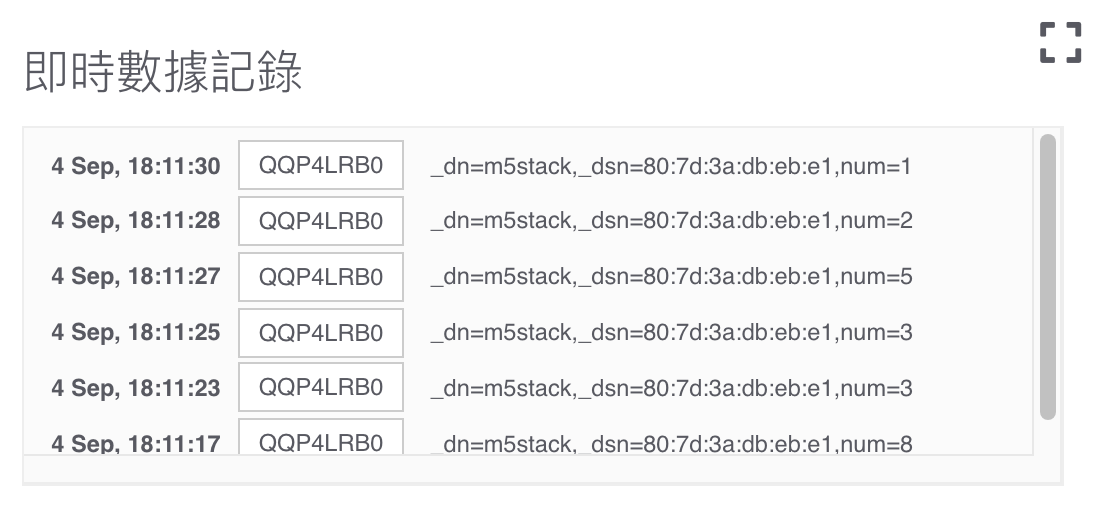
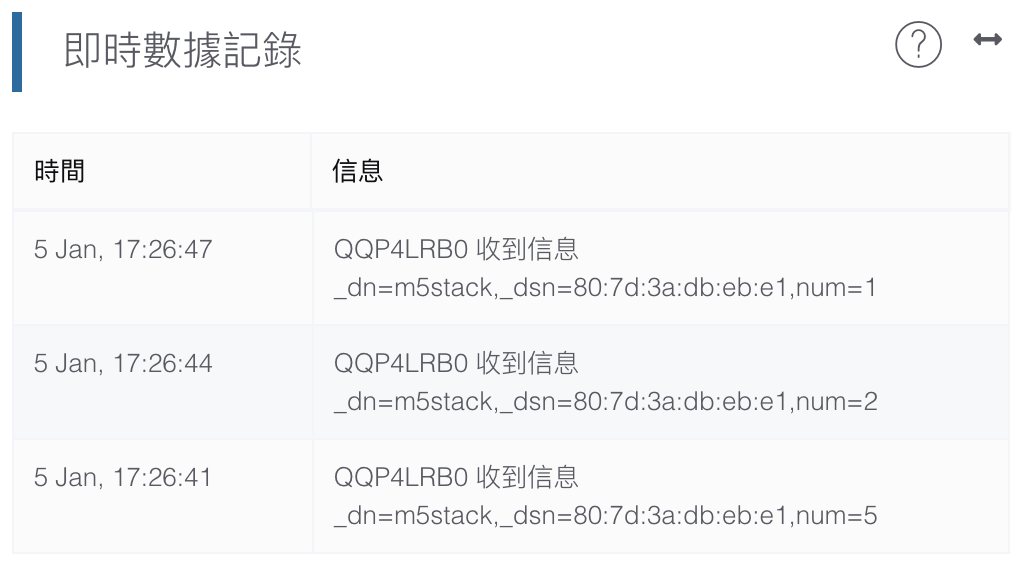
Updated tutorials with new version of MakerCloud

diff --git a/docs/ch1_project/project.md b/docs/ch1_project/project.md
@@ -1,51 +1,38 @@
 # 項目
 [TOC]
 ## 創建項目
-登入創客雲後，按下「創建項目」  
-![img_1.png](img/img_1.png){width="60%"}
+1. 登入創客雲後，按下「創建項目」按鈕。
+2. 輸入項目名稱，按下「確認」按鈕。
+3. 按下「OK」按鈕。
 
-選擇「物聯網項目」，然後輸入項目名稱並按下「創建項目」  
-![img_2.png](img/img_2.png){width="100%"}
+![img_1.gif](img/img_1.gif)
 
-看到項目主頁便完成了創建項目  
-![img_3.png](img/img_3.png){width="100%"}
+成功建立項目後，便會進入項目主頁。  
+![img_2.png](img/img_2.png)
 
 ## 更改項目名稱
-按下在項目名稱右上角的設定按鈕  
-![img_4.png](img/img_4.png){width="60%"}
+1. 進入項目主頁，按下「更改名稱」按鈕。
+2. 更改項目名稱，按下「確認」按鈕。
+3. 按下「OK」按鈕。
 
-選擇「編輯」  
-![img_5.png](img/img_5.png){width="60%"}
-
-更改名稱後，按下「確認」  
-![img_6.png](img/img_6.png){width="60%"}
-
-回到項目主頁便會看到項目名稱已經更改  
-![img_7.png](img/img_13.png){width="60%"}
+![img_3.gif](img/img_3.gif)
 
 ## 項目分享
-使用者可以透過分享連結或QR
-code給其他使用者，因此不同的使用者可以共同協作同一個項目。
+使用者可以透過分享連結或QR code給其他使用者，因此不同的使用者可以共同協作同一個項目。
 
-在項目主頁，按下「分享」按鈕  
-![img_8.png](img/img_7.png){width="100%"}
+1. 在用戶列表中，按下「分享」按鈕。  
+![img_4.png](img/img_4.png){:width="70%"}
+</br></br>
+2. 把連結或QR code傳送給其他創客雲使用者。  
+![img_5.png](img/img_5.png){:width="50%"}
 
-把頁面中的QR code或 連結 分享給其他使用者，邀請加入項目  
-![img_9.png](img/img_8.png){width="50%"}
-
-當被邀請者掃瞄QR code或按下分享連結，然後再按下「確認」按鈕便成功加入項目  
-![img_9.png](img/img_9.png){width="40%"}
-
+當其他創客雲使用者加入了項目後，便可以在用戶列表中看到其他使用者的電郵地址。  
+![img_6.png](img/img_6.png){:width="70%"}  
 成功加入項目的使用者，可以與其他擁有同一項目的使用者共同協作。
 
 ## 上載檔案
-在項目主頁，按下「我的檔案」按鈕。  
-![img_10.png](img/img_10.png)
-
-把檔案拖曳到或點擊指定地方以上載文件  
-![img_11.png](img/img_11.png){width="50%"}
-
-上載成功後，使用者點擊檔案名稱便下載檔案  
-![img_12.png](img/img_12.png){width="50%"}
 
 使用者可能上載與項目有關的檔案到創害雲，如micro:bit編程、筆記等，方便與項目共同者分享檔案。
+
+在檔案列表中，按下「上載文件」按鈕或直接把文件拖到檔案列表中，便可以上載檔案。  
+![img_7.png](img/img_7.png){:width="70%"}

diff --git a/docs/ch5_publish/ai2/publish_ai2.md b/docs/ch5_publish/ai2/publish_ai2.md
@@ -57,17 +57,17 @@
 1. 加入連接創客雲積木  
    當screen初始化，執行「呼叫MakerCloudMQTT」
 2. 當點選"按鈕1"後，發布在文字輸入盒中的文字到創客雲  
-   ![img_9.png](img/img_9.png){:width="70%"}  
-</br></br>
+   ![img_9.png](img/img_9.png){:width="70%"}
 3. 在創客雲複製主題名稱  
-   ![img_10.png](img/img_10.png){:width="60%"}
+   ![img/img_topic_message.png](img/img_topic_message.png){:width="80%"}
+</br></br>
 4. 在AI2，把主題名稱貼上到"topic"
    ![img_11.png](img/img_11.png){:width="70%"}
 
 這樣便完成了發布文字的AI2編程了。
 
 回到創客雲的項目主頁，在即時數據紀錄視窗中便可看到從APP發布的文字訊息。
-![img_12.png](img/img_12.png){:width="80%"}
+![img_12.png](img/img_12.png){:width="70%"}
 
 ## 發布鍵值對訊息
 #### 學習重點
@@ -107,8 +107,8 @@
    注意: 發布積木中分別有**發布鍵文字對**和**發布鍵值對**，使用者可按數據類型使用
     </br></br>
 3. 在創客雲複製主題名稱  
-   ![img_16.png](img/img_16.png){:width="60%"}
-
+   ![img_topic_randNum.png](img/img_topic_randNum.png){:width="80%"}
+    </br></br>
 4. 在"Topic"中貼上主題名稱，在"key"中輸入"num"，在"value中加入"隨機整數從0到10"
    ![img_17.png](img/img_17.png){:width="90%"}
 </br></br>
@@ -117,8 +117,10 @@
 當按下按鈕後，在即時數據紀錄便可以看到來自App的鍵值對訊息。  
 ![img_18.png](img/img_18.png){:width="70%"}
 
-然後重新整理項目主頁。  
-創雲會為鍵值對自動紀錄鍵的名字和創建圖表。  
-![img_19.png](img/img_19.png)
+然後重新整理項目主頁，並轉到圖表主頁。
+![img_tochartpage.png](img/img_tochartpage.png){:width="100%"}
+
+創客雲會為鍵值對自動紀錄鍵的名字和創建圖表。  
+![img_19.png](img/img_19.png){:width="60%"}
 
 

diff --git a/docs/ch5_publish/python/publish_python.md b/docs/ch5_publish/python/publish_python.md
@@ -73,7 +73,7 @@ MakerCloudMQTT.publish_coordination(topic, latitude, longitude)
 1. 創建項目
 2. 創建主題
 3. 在創客雲複製主題名稱  
-![img_2.png](img/img_2.png){:width="60%"}
+![img/img_topic_message.png](img/img_topic_message.png){:width="80%"}
 
 **然後便可到Python編程:**
 ```python
@@ -98,7 +98,7 @@ Message: Python
 ```
 
 回到創客雲的項目主頁，在即時數據紀錄視窗中便可看到從APP發布的文字訊息。
-![img_3.png](img/img_3.png){:width="65%"}
+![img_3.png](img/img_3.png){:width="70%"}
 
 ### 發布鍵值對訊息
 #### 學習重點
@@ -115,7 +115,7 @@ Message: Python
 1. 創建項目
 2. 創建主題
 3. 在創客雲複製主題名稱  
-   ![img_4.png](img/img_4.png){:width="60%"}
+![img_topic_randNum.png](img/img_topic_randNum.png){:width="80%"}
 
 **然後便可到Python編程:**
 ```python
@@ -141,6 +141,8 @@ while 1:
 在即時數據紀錄便可以看到來自App的鍵值對訊息。  
 ![img_6.png](img/img_6.png){:width="70%"}
 
-然後重新整理項目主頁。  
-創雲會為鍵值對自動紀錄鍵的名字和創建圖表。  
-![img_5.png](img/img_5.png){:width="60%"}
+然後重新整理項目主頁，並轉到圖表主頁。  
+![img_tochartpage.png](img/img_tochartpage.png){:width="100%"}
+
+創客雲會為鍵值對自動紀錄鍵的名字和創建圖表。  
+![img_chart.png](img/img_chart.png){:width="60%"}

diff --git a/docs/ch5_publish/microbit/publish_microbit.md b/docs/ch5_publish/microbit/publish_microbit.md
@@ -55,7 +55,7 @@
 ![img_5.png](img/img_5.png)
 </br></br>
 5. 在創客雲複製主題名稱  
-![img_6.png](img/img_6.png){:width="70%"}
+![img/img_topic_message.png](img/img_topic_message.png){:width="80%"}
 </br></br>
 6. 貼上發佈文字訊息積木的"topic"中
 7. 在"message"中輸入"hello"  
@@ -97,7 +97,8 @@
 </br></br>
 注意: 發布積木中分別有**發布鍵文字對**和**發布鍵值對**，使用者可按數據類型使用
 5. 在創客雲複製主題名稱  
-![img_12.png](img/img_12.png){:width="70%"}
+![img_topic_randNum.png](img/img_topic_randNum.png){:width="80%"}
+</br></br>
 6. 貼上發佈文字訊息積木的"topic"中
 7. 在"key"中輸入"num"，在0中加入"隨機取數0-10"
 ![img_13.png](img/img_13.png)
@@ -108,6 +109,8 @@
 當按下micro:bit的A按鈕後，在即時數據紀錄便可以看到來自micro:bit的鍵值對訊息。  
 ![img_14.png](img/img_14.png){:width="70%"}
 
-然後重新整理項目主頁。  
-創雲會為鍵值對自動紀錄鍵的名字和創建圖表。  
-![img_15.png](img/img_15.png)
+然後重新整理項目主頁，並轉到圖表主頁。  
+![img_tochartpage.png](img/img_tochartpage.png){:width="100%"}
+
+創客雲會為鍵值對自動紀錄鍵的名字和創建圖表。  
+![img_15.png](img/img_15.png){:width="60%"}

diff --git a/docs/ch6_subscribe/ai2/subscribe_ai2.md b/docs/ch6_subscribe/ai2/subscribe_ai2.md
@@ -64,18 +64,21 @@
    當screen初始化，執行「呼叫MakerCloudMQTT」
 </br></br>
 2. 加入訂閱創客雲主題積木，然後複製並貼上需訂閱的主題名稱  
-   ![img_9.png](img/img_9.png){:width="60%"}  
+   ![img_topic_message.png](img/img_topic_message.png){:width="70%"}
+   </br></br>
    ![img_10.png](img/img_10.png)
-</br></br>
+   </br></br>
+
 3. 加入「當MakerCloud.stringMessageHandler」積木  
 ![img_11.png](img/img_11.png)
 </br></br>
 4. 設標籤1的文字為「receivedMessage」  
    ![img_12.png](img/img_12.png){:width="65%"}
 
-完成編程後，回到創客雲的項目主頁。  
-點擊主題描述，進入主題主頁。在「發送消息到主題」的文字輸入框中，輸入「hello」，然後按「發送」。  
-![img_13.gif](img/img_13.gif)
+完成編程後，回到創客雲的物聯網主頁。  
+按下主題中的「詳細資料」按鈕，進入主題主頁。  
+在「發送消息到主題」的文字輸入框中，輸入「hello」，然後按「發送」。  
+![img_publishhello.gif](img/img_publishhello.gif)
 
 此時，App上的標籤會同時顥示「hello」。
 

diff --git a/docs/ch6_subscribe/microbit/subscribe_microbit.md b/docs/ch6_subscribe/microbit/subscribe_microbit.md
@@ -52,7 +52,8 @@
 3. 當啟動時:  
    更新KittenWiFi接口、連接WiFi及創客雲MQTT
 4. 加入訂閱創客雲主題積木，然後複製並貼上需訂閱的主題名稱  
-![img_6.png](img/img_6.png){:width="70%"}  
+![img_topic_message.png](img/img_topic_message.png){:width="70%"}
+</br></br>
 ![img_7.png](img/img_7.png)
 </br></br>
 5. 加入「當MQTT 收到文字訊息」，然後貼上已訂閱的主題名稱  
@@ -64,8 +65,9 @@
 7. 下載編程到micro:bit
 
 完成編程後，回到創客雲的項目主頁。  
-點擊主題描述，進入主題主頁。在「發送消息到主題」的文字輸入框中，輸入「hello」，然後按「發送」。  
-![img_11.gif](img/img_11.gif)
+按下主題中的「詳細資料」按鈕，進入主題主頁。  
+在「發送消息到主題」的文字輸入框中，輸入「hello」，然後按「發送」。  
+![img_publishhello.gif](img/img_publishhello.gif)
 
 從創客雲發送訊息後，micro:bit上的LED便會顯示「hello」。  
 ![img_12.gif](img/img_12.gif){:width="40%"}

diff --git a/docs/ch5_publish/m5stack/publish_m5stack.md b/docs/ch5_publish/m5stack/publish_m5stack.md
@@ -40,16 +40,19 @@
    ![img_5.png](img/img_5.png){:width="60%"}
 </br></br>
 5. 在創客雲複製主題名稱  
-   ![img_4.png](img/img_4.png){:width="60%"}
+   ![img_topic_randNum.png](img/img_topic_randNum.png){:width="80%"}
+</br></br>
 6. 在"Topic"中貼上主題名稱，在"key"中輸入"num"，在"value中加入"random integer from 0 to 10"
    ![img_6.png](img/img_6.png){:width="65%"}
 </br></br>
 
 完成後，回到創客雲的項目主頁。  
 當按下按鈕後，在即時數據紀錄便可以看到來自App的鍵值對訊息。  
-![img_7.png](img/img_7.png){:width="80%"}
+![img_7.png](img/img_7.png){:width="70%"}
 
-然後重新整理項目主頁。  
-創雲會為鍵值對自動紀錄鍵的名字和創建圖表。  
+然後重新整理項目主頁，並轉到圖表主頁。  
+![img_tochartpage.png](img/img_tochartpage.png){:width="100%"}
+
+創客雲會為鍵值對自動紀錄鍵的名字和創建圖表。  
 ![img_8.png](img/img_8.png){:width="80%"}
 

diff --git a/docs/ch3_Topic/topic.md b/docs/ch3_Topic/topic.md
@@ -7,16 +7,19 @@
 
 ![img_1.gif](img/img_1.gif){:width="75%"}
 
-成功創建主題後，在項目主頁中便可看到創建的主題。  
+成功創建主題後，按下物聯網進入物聯網主頁，便可看到創建的主題。  
 ![img_2.png](img/img_2.png){:width="100%"}
 
+在建創多於一個的主題後，可在物聯網主頁中按下不同的主題以轉換主題頁面。
+![img_1.gif](img/img_5.gif){:width="100%"}
+
 ## 更改主題描述
-1. 按下主題，進入主題主頁
+1. 按下「詳細資料」按鈕，進入主題主頁
 2. 按下「更新主題」
 3. 更改主題名稱，按下「確認」按鈕。
 4. 按下「OK」按鈕。
 
 ![img_3.gif](img/img_3.gif){:width="100%"}
 
-成功更改主題描述後，回到項目主頁中便可看到主題描述已經更改。
-![img_4.png](img/img_4.png){:width="50%"}
+成功更改主題描述後，回到物聯網主頁中便可看到主題描述已經更改。
+![img_4.png](img/img_4.png){:width="100%"}

diff --git a/docs/ch6_subscribe/python/subscribe_python.md b/docs/ch6_subscribe/python/subscribe_python.md
@@ -101,7 +101,8 @@ MakerCloudMQTT.coordinate_handler = coordinate_handler
 1. 創建項目
 2. 創建主題
 3. 在創客雲複製主題名稱  
-![img_2.png](img/img_2.png){:width="60%"}
+![img_topic_message.png](img/img_topic_message.png){:width="70%"}
+
 
 **然後便可到Python編程:**
 ```python
@@ -122,8 +123,9 @@ MakerCloudMQTT.subscribe(topic)
 ```
 
 完成及運行編程後，回到創客雲的項目主頁。  
-點擊主題描述，進入主題主頁。在「發送消息到主題」的文字輸入框中，輸入「hello」，然後按「發送」。  
-![img_3.gif](img/img_3.gif)
+按下主題中的「詳細資料」按鈕，進入主題主頁。  
+在「發送消息到主題」的文字輸入框中，輸入「hello」，然後按「發送」。  
+![img_publishhello.gif](img/img_publishhello.gif)
 
 回到Python程式，便會收到文字訊息:
 ```

diff --git a/docs/ch5_publish/makercloud/makercloud.md b/docs/ch5_publish/makercloud/makercloud.md
@@ -1,7 +1,7 @@
 # 創客雲發布
 在創客雲中，使用者可以在主題主頁中發布消息到主題。
 
-1. 點擊主題描述進入主題主頁
+1. 按下主題中的「詳細資料」按鈕，進入主題主頁
 2. 在「發送消息到主題」的文字框中輸入需要發送的文字
 3. 點撃「發送」以發送文字到此主題
 
